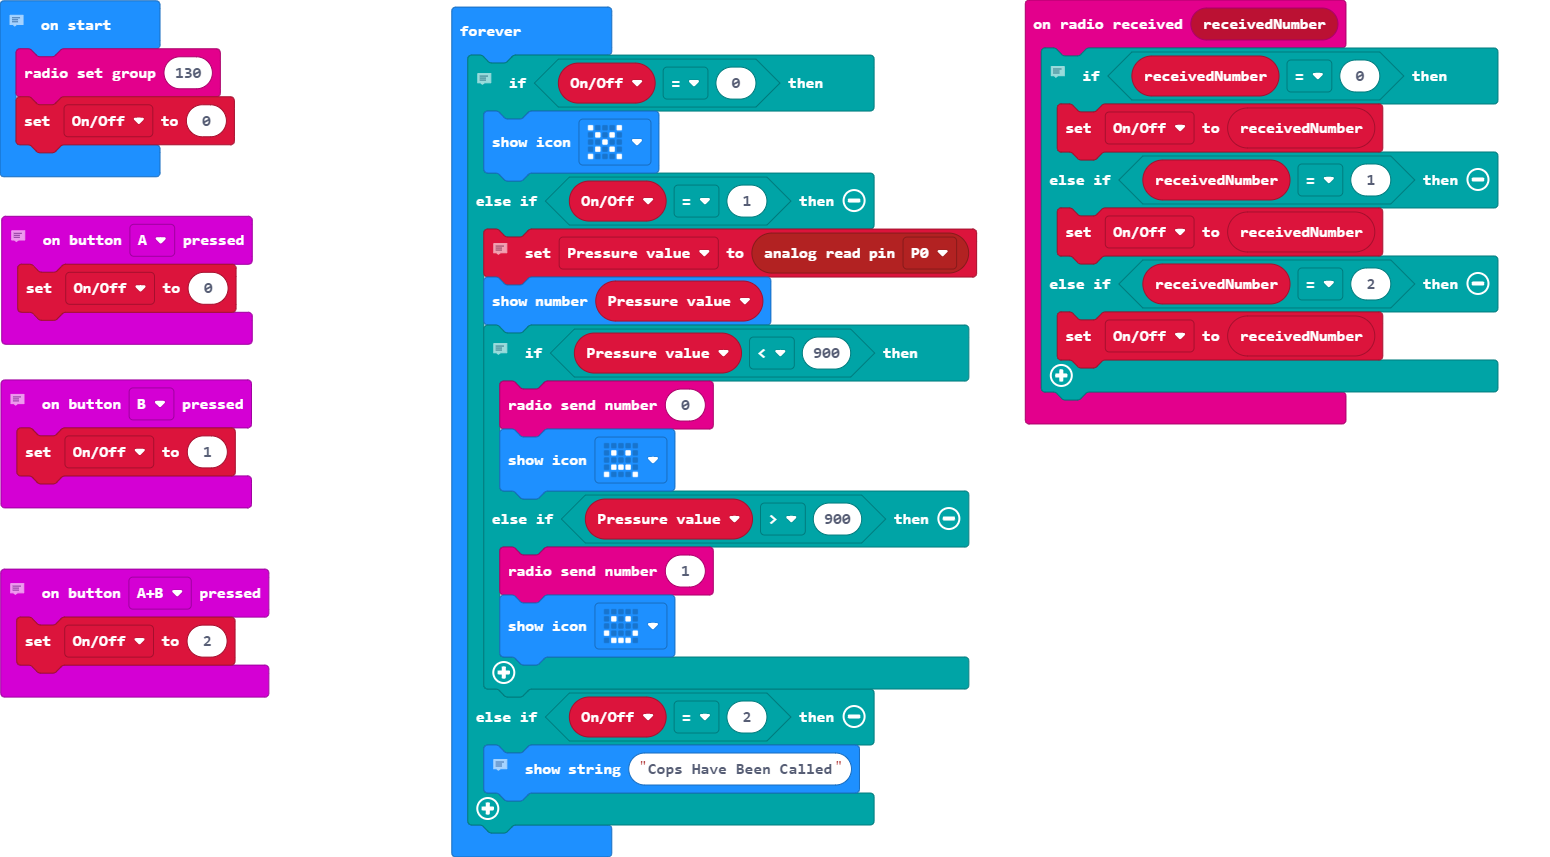
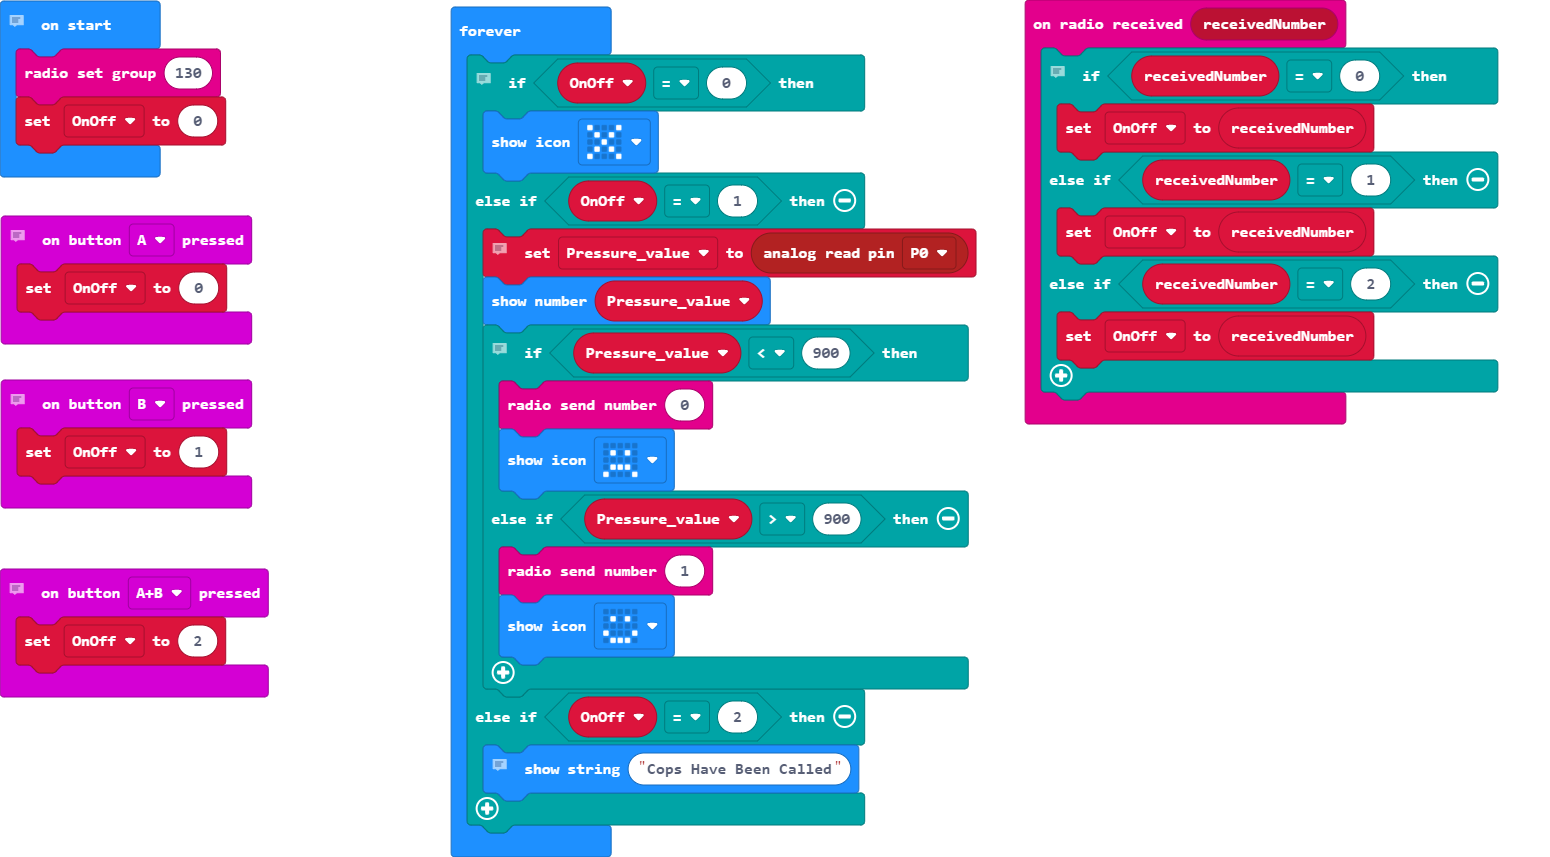
Update main.blocks, main.ts

diff --git a/main.ts b/main.ts
@@ -20,7 +20,7 @@ input.onButtonPressed(Button.AB, function () {
 input.onButtonPressed(Button.B, function () {
     OnOff = 1
 })
-// Establishes radio group and also sets the alarm as disengaged.
+// Establishes radio group and begins the code with alarm deactivated.
 let Pressure_value = 0
 let OnOff = 0
 radio.setGroup(130)
